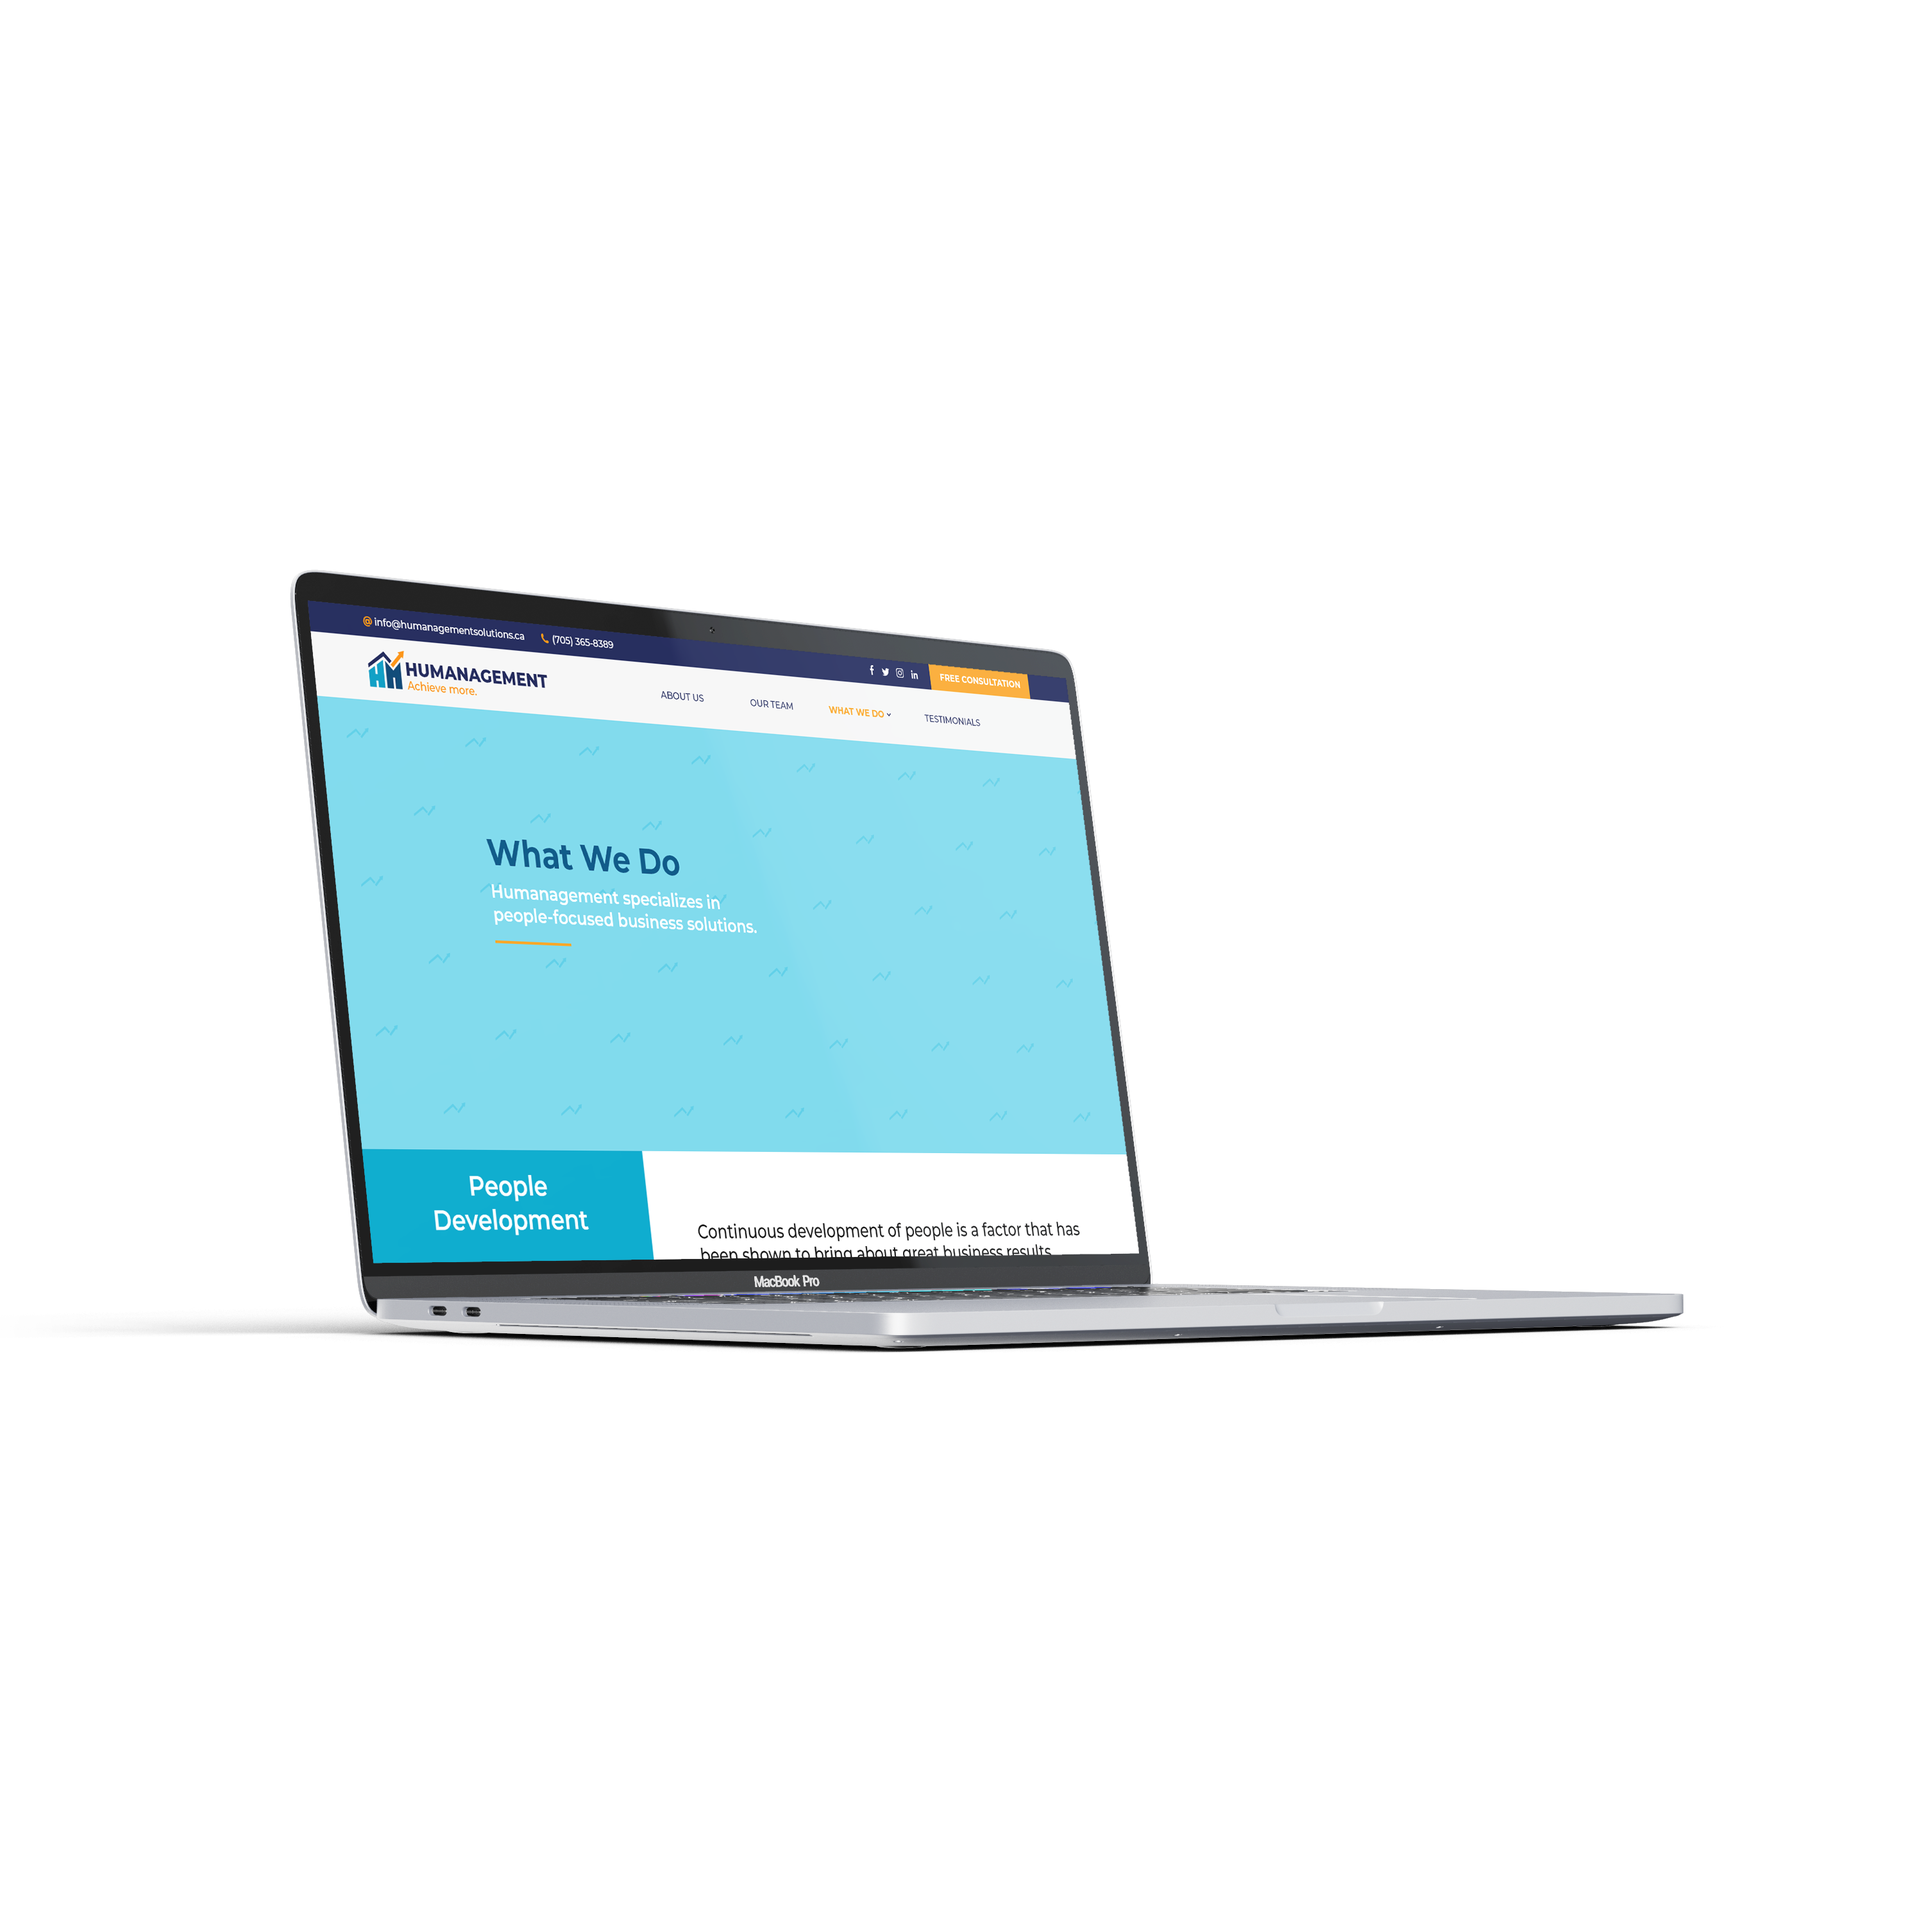
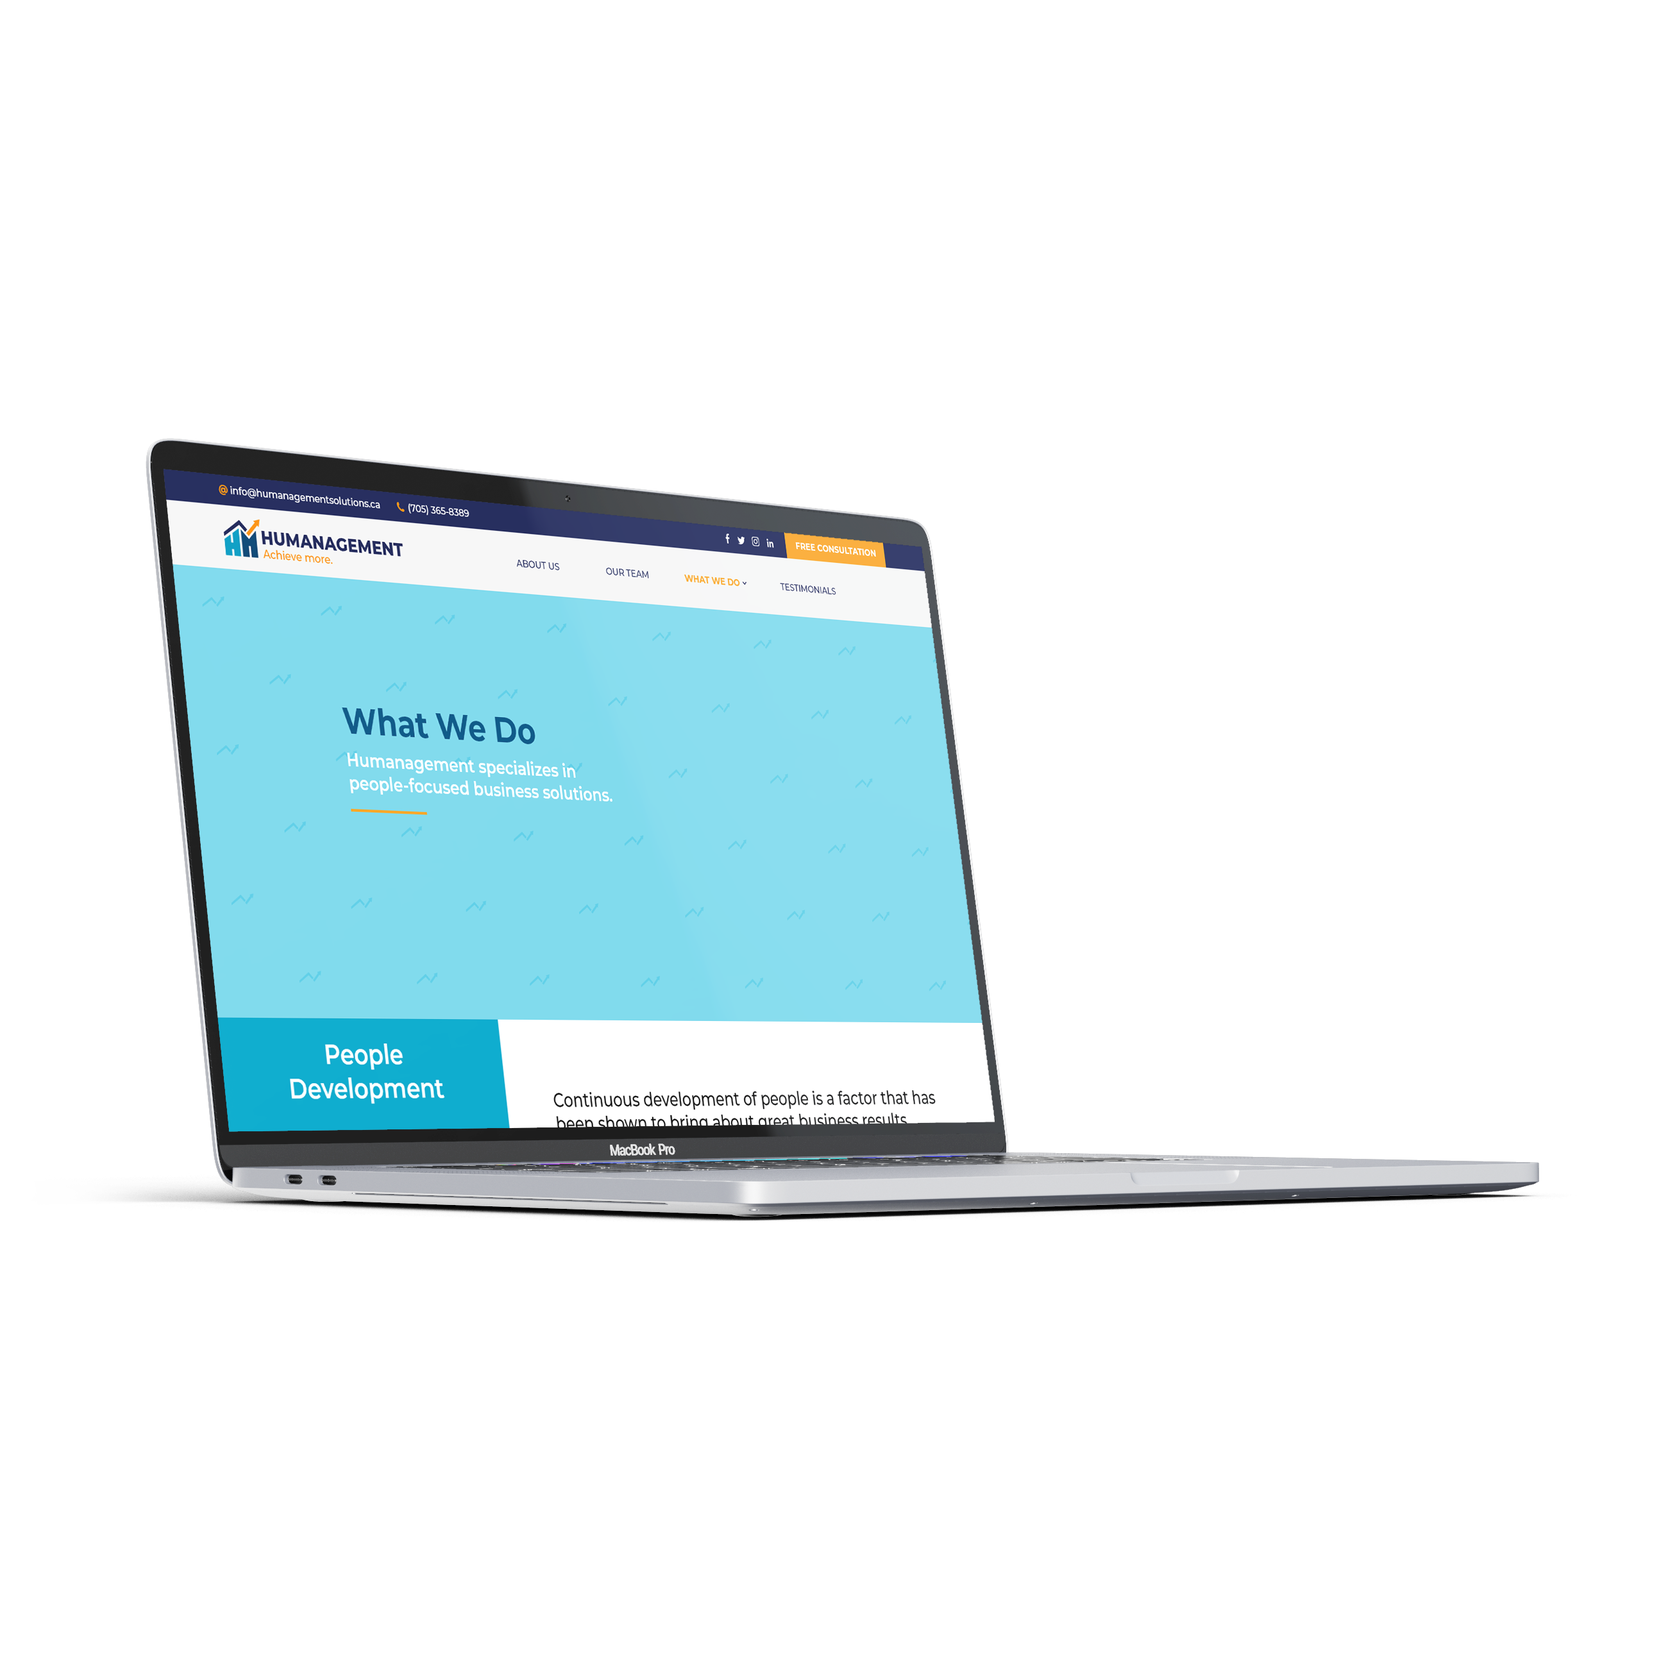
Adjust image sizing

Changed region(s): [[0.0618, 0.2471, 0.9266, 0.7413]]

diff --git a/home.html b/home.html
@@ -168,7 +168,7 @@
 
       <div class="unit xs-1 s-1 m-3-4 l-5-6 unit-offset-m-1-4 unit-offset-l-1-6">
         <div class="grid">
-          <div class="unit xs-1 s-1-2 m-1-3 unit-content-center island-1-2">
+          <div class="unit xs-1 s-1-2 m-1-3 unit-content-center">
             <img class="img-flex" src="/images/humanagement-preview.png" alt="Humanagement laptop preview">
           </div>
           <div class="unit xs-0 s-1 s-1-2 m-1-2 pad-t-2 pad-b-2 gutter">
